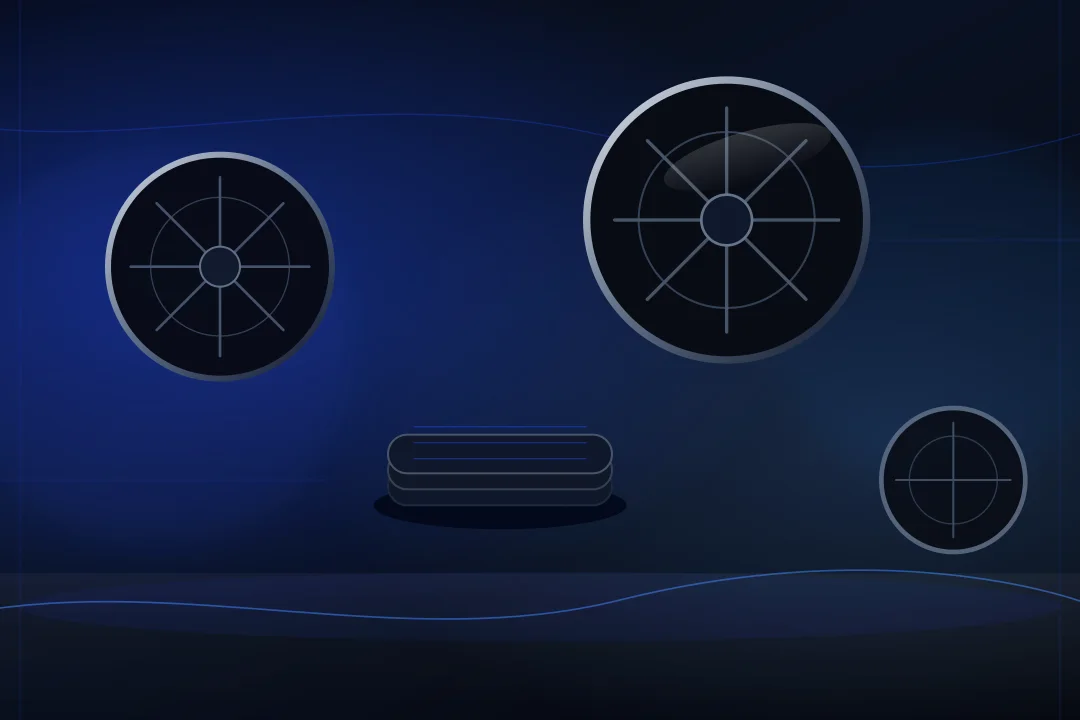
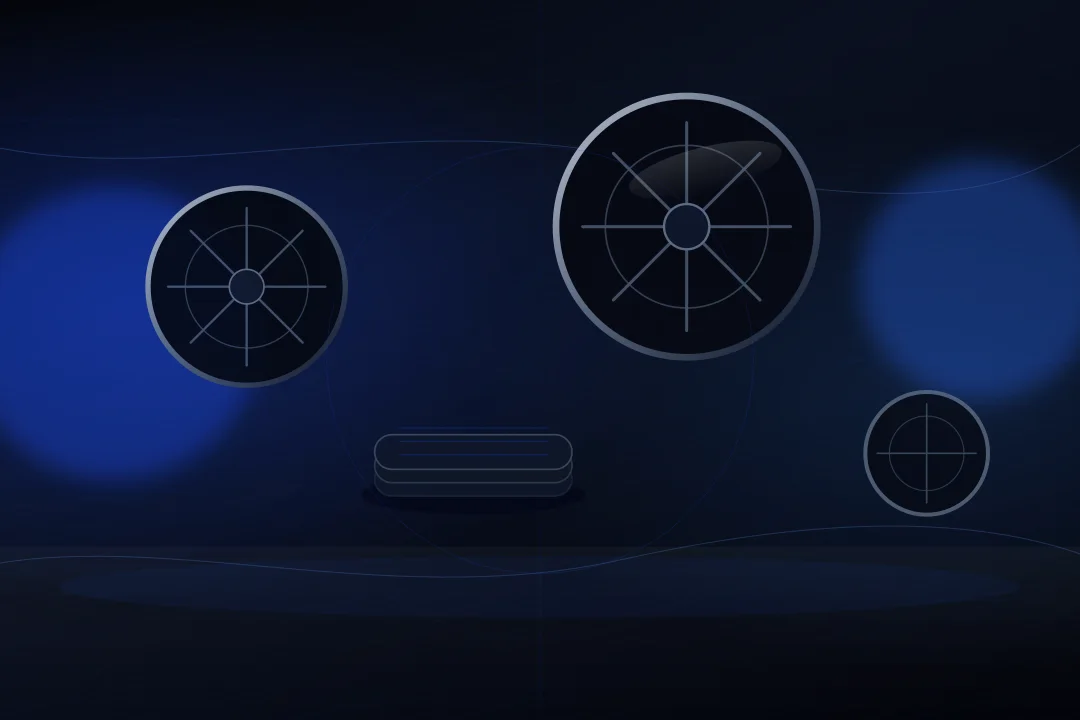
anasayfagüncelleme

diff --git a/assets/css/hero-slider.css b/assets/css/hero-slider.css
@@ -65,18 +65,21 @@
 }
 
 .hero__bg-slide--1 {
-  --hero-pos-desktop: center 42%;
-  --hero-pos-mobile: center 18%;
+  --hero-pos-desktop: center 58%;
+  --hero-pos-tablet: center 52%;
+  --hero-pos-mobile: center 44%;
 }
 
 .hero__bg-slide--2 {
-  --hero-pos-desktop: center center;
-  --hero-pos-mobile: center center;
+  --hero-pos-desktop: center 50%;
+  --hero-pos-tablet: center 50%;
+  --hero-pos-mobile: center 48%;
 }
 
 .hero__bg-slide--3 {
-  --hero-pos-desktop: center 36%;
-  --hero-pos-mobile: center 24%;
+  --hero-pos-desktop: center 34%;
+  --hero-pos-tablet: center 30%;
+  --hero-pos-mobile: center 22%;
 }
 
 @keyframes heroKenBurns {
@@ -224,6 +227,7 @@
 .hero__highlights {
   grid-area: highlights;
   pointer-events: auto;
+  align-self: end;
 }
 
 .hero .hero-highlights__list {
@@ -322,6 +326,10 @@
       inset 0 1px 0 rgba(255, 255, 255, 0.05);
   }
 
+  .hero__highlights {
+    padding-bottom: clamp(2px, 0.6vw, 6px);
+  }
+
   .hero .hero-highlights__item {
     justify-content: center;
     height: 100%;
@@ -343,6 +351,11 @@
     transform: translateY(-50%);
   }
 
+  .hero--slide-2 .hero__panels {
+    align-self: stretch;
+    min-height: 100%;
+  }
+
   .hero__panel--center {
     left: 50%;
     bottom: auto;
@@ -353,9 +366,15 @@
   .hero__panel--center.is-active {
     transform: translate(-50%, -50%);
   }
+}
 
-  .hero--slide-2 .hero__panels {
-    align-self: center;
+@media (min-width: 769px) and (max-width: 1023px) {
+  .hero__bg-img {
+    object-position: var(--hero-pos-tablet, var(--hero-pos-desktop, center center));
+  }
+
+  .hero__panel .hero__title {
+    font-size: clamp(28px, 4.2vw, 40px);
   }
 }
 
@@ -369,8 +388,14 @@
   }
 
   .hero__ui {
-    gap: 10px;
-    padding-bottom: clamp(14px, 3.5vw, 20px);
+    gap: clamp(8px, 2.5vw, 12px);
+    padding-top: calc(var(--site-header-height) + clamp(22px, 5vw, 36px));
+    padding-bottom: clamp(12px, 3vw, 18px);
+  }
+
+  .hero__panels {
+    align-self: end;
+    padding-top: clamp(72px, 16vw, 108px);
   }
 
   .hero__panel {
@@ -385,6 +410,19 @@
 
   .hero__panel--center.is-active {
     transform: translateY(0);
+  }
+
+  .hero--slide-2 .hero__panels {
+    padding-top: clamp(88px, 20vw, 124px);
+  }
+
+  .hero--slide-2 .hero__panel .hero__title {
+    font-size: clamp(20px, 5.8vw, 28px);
+    line-height: 1.18;
+  }
+
+  .hero--slide-2 .hero__panel .hero__desc {
+    max-width: 34ch;
   }
 
   .hero__panel--center .hero__content {
@@ -412,6 +450,7 @@
 
   .hero .hero-highlights__list {
     gap: 8px;
+    margin-top: clamp(2px, 1vw, 6px);
   }
 
   .hero .hero-highlights__item {

diff --git a/index.html b/index.html
@@ -303,8 +303,8 @@
 
           <article class="hero__panel hero__panel--left" data-hero-content="1" aria-hidden="true">
             <div class="hero__content">
-              <h2 class="hero__title hero__animate hero__animate--1">Sahibinden Mağazamız</h2>
-              <p class="hero__desc hero__animate hero__animate--2">Sıfır ve ikinci el jantlar, lastikler ve güncel stoklarımızı Sahibinden mağazamızdan inceleyebilirsiniz.</p>
+              <h2 class="hero__title hero__animate hero__animate--1">Online Satış</h2>
+              <p class="hero__desc hero__animate hero__animate--2">Sıfır ve ikinci el jantlar, lastikler ve güncel ürün stoklarımızı online olarak inceleyebilir, güvenle sipariş oluşturabilirsiniz.</p>
               <div class="hero__actions hero__animate hero__animate--3">
                 <a href="#" class="hero__btn hero__btn--primary" data-sahibinden-link>Ürünleri İncele</a>
               </div>
